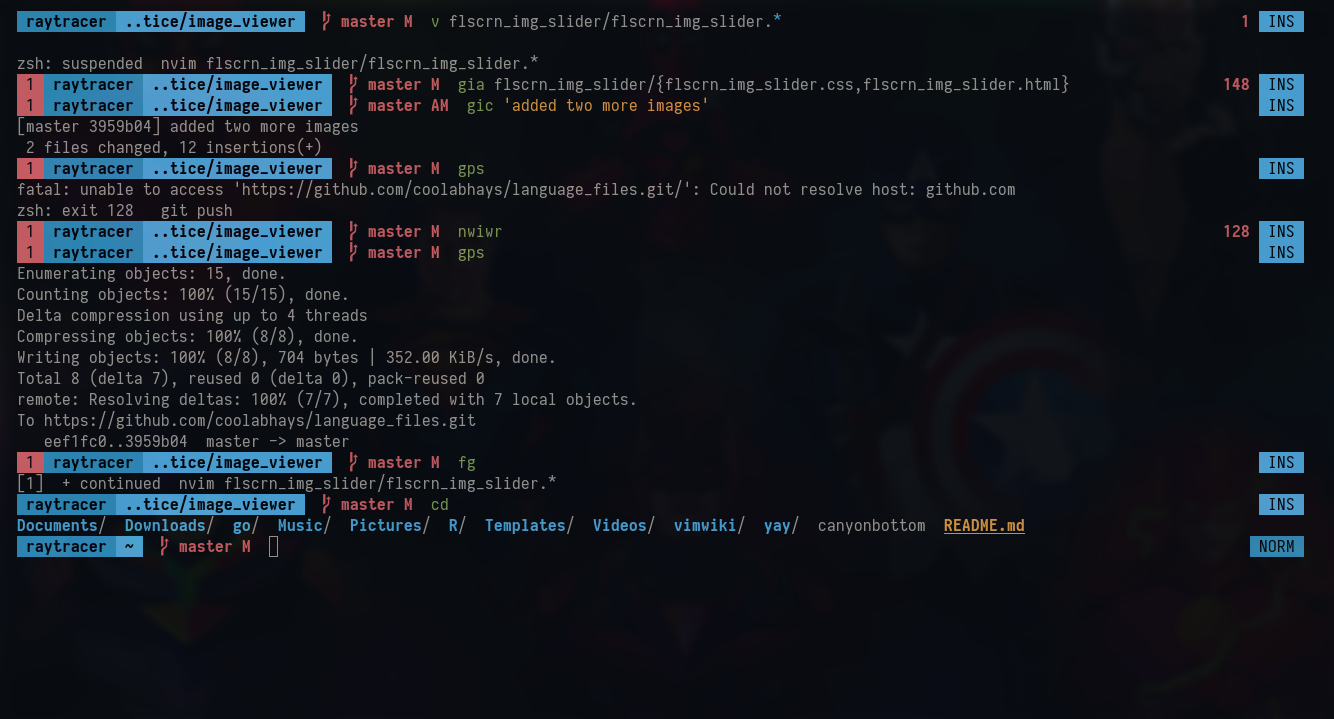
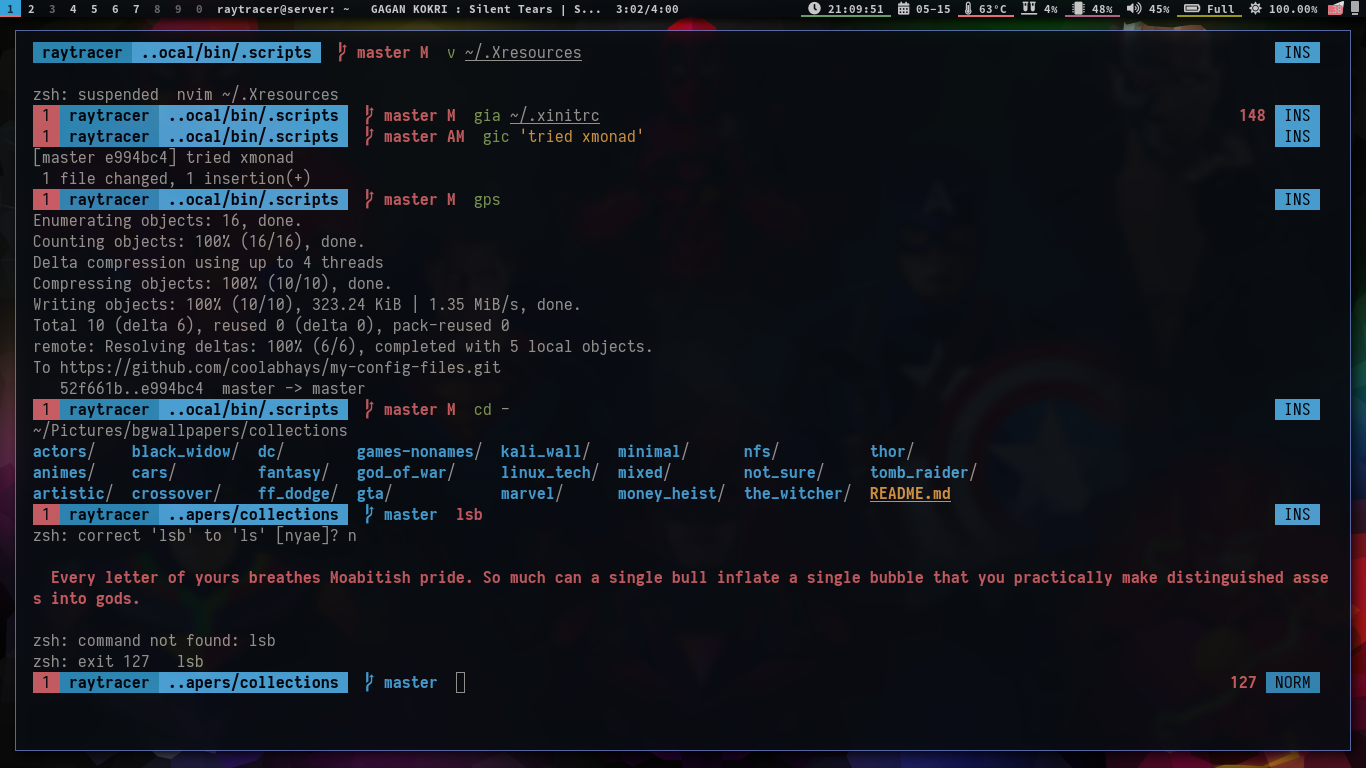
updated current prompt

diff --git a/README.md b/README.md
@@ -31,6 +31,14 @@ Using `i3wm` as my window manager
 Currently, using `zsh` as default shell. Using self made [zshprompt](https://github.com/coolabhays/my-config-files/blob/master/.zsh/current_prompt.zsh). Checkout out the link for more info
 [zshprompt](.local/bin/screenshots/current_zsh_prompt.png)
 
+Features are:
+* truncate path if more than 20 chars
+* Shows clean and dirty git branch with different colors
+* Shows `modified` and `git add` status in prompt
+* Shows count of currently stopped and running zobs
+* Shows error code
+* Show `ins` and `normal` mode for vi-mode
+
 ### Self made(bash)
 Using self-made [bashprompt](https://github.com/coolabhays/my-config-files/blob/master/.bashrc). Checkout the link for more info
 ![bashprompt](.local/bin/screenshots/bashprompt.png)
